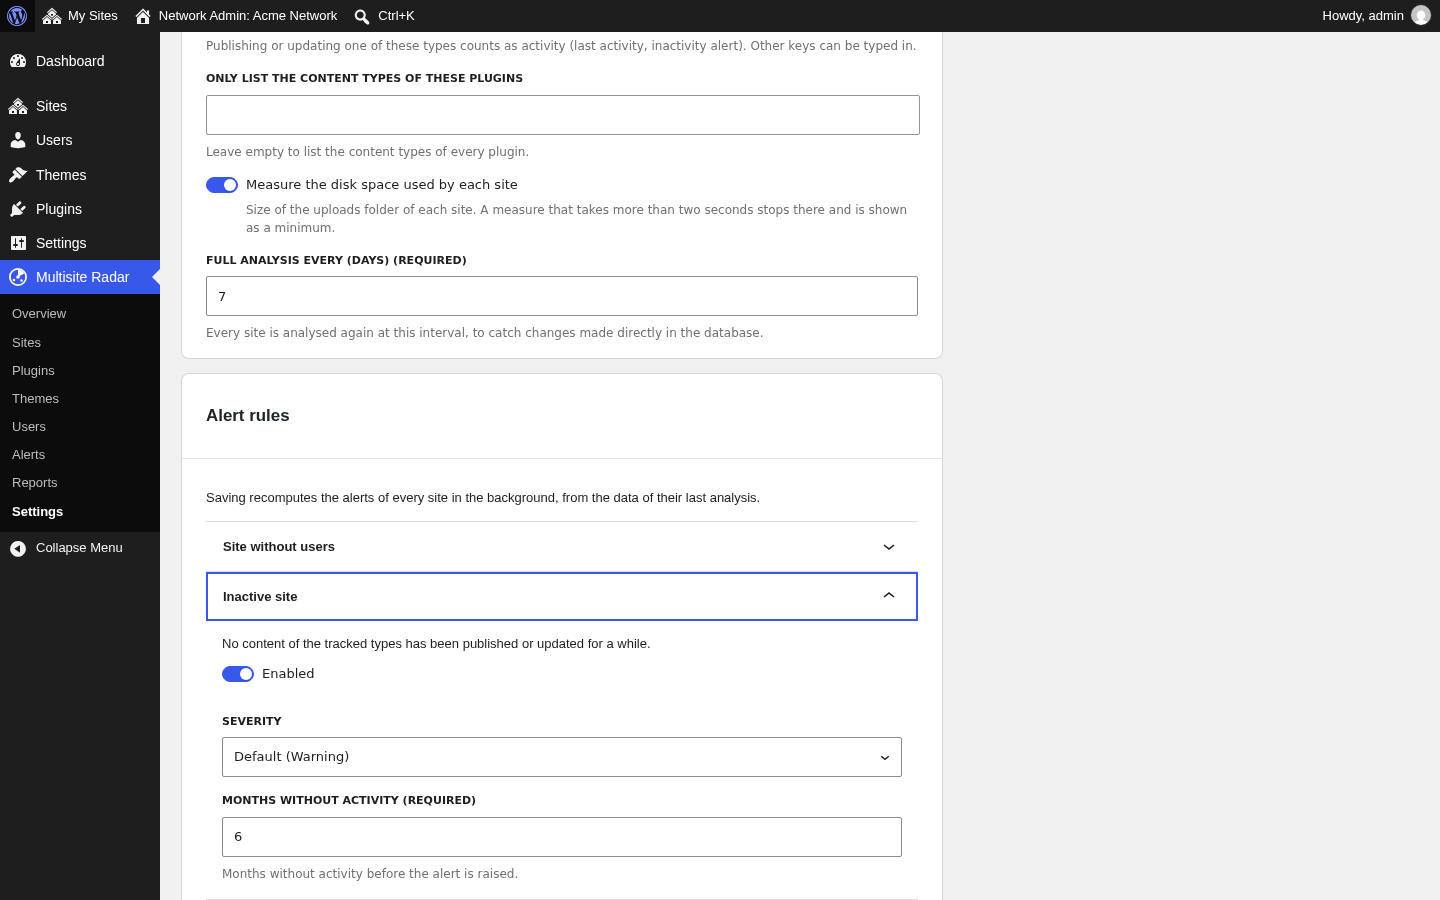
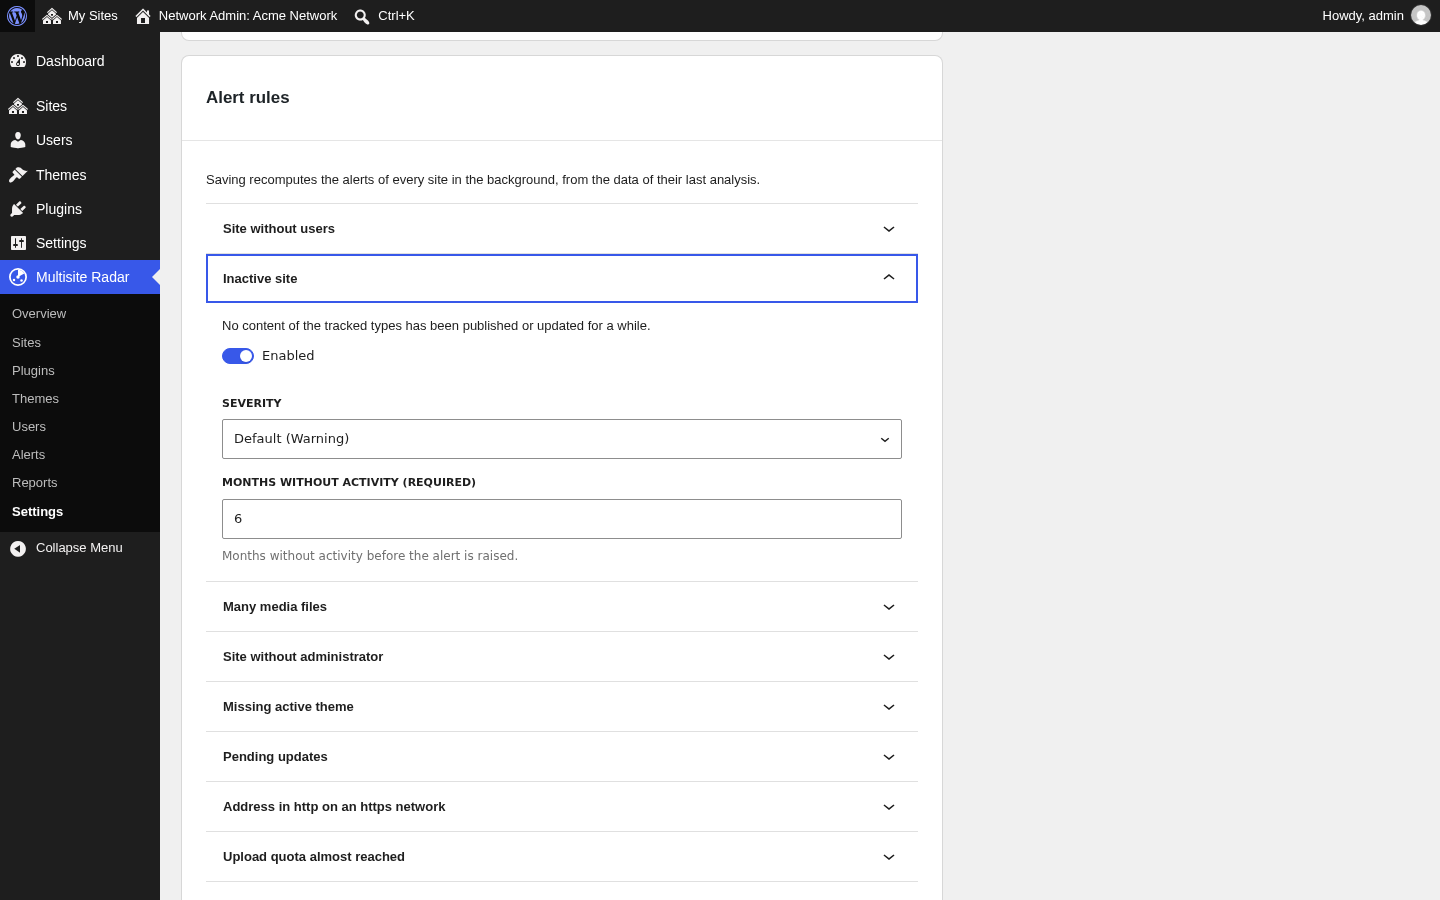
build: keep Hello Dolly unused in the demo network, align caption 5 and polish screenshots 6 and 7

diff --git a/tests/e2e/screenshots/wporg.spec.js b/tests/e2e/screenshots/wporg.spec.js
@@ -12,6 +12,8 @@ test.describe.configure( { mode: 'serial' } );
 
 async function shoot( page, number, fullPage = false ) {
 	const size = page.viewportSize();
+	// Une vraie erreur ne doit pas être masquée par la règle ci-dessous.
+	await expect( page.locator( '.notice-error' ) ).toHaveCount( 0 );
 	// Les avis de WordPress (mise à jour disponible) et la version du plugin n'ont pas leur place dans les captures :
 	// elles ne doivent pas vieillir à chaque publication.
 	await page.addStyleTag( {
@@ -90,6 +92,8 @@ test( '5. Plugins', async ( { admin, page } ) => {
 
 test( '6. Reports', async ( { admin, page } ) => {
 	await open( admin, page, 'page=multisite-radar-reports' );
+	// Les données de démonstration couvrent 30 jours.
+	await page.locator( '#msradar-reports-period' ).selectOption( '30' );
 	await expect(
 		page.locator( '.msradar-reports__trends svg.msradar-trend__chart' )
 	).toHaveCount( 3 );
@@ -106,6 +110,16 @@ test( '7. Settings, an alert rule', async ( { admin, page } ) => {
 		name: /Months without activity/,
 	} );
 	await expect( months ).toBeVisible();
-	await months.scrollIntoViewIfNeeded();
+	// La capture commence en haut de la carte, titre compris, pas au milieu d'une phrase de la carte précédente.
+	await page
+		.locator( '#msradar-app' )
+		.getByRole( 'heading', { name: 'Alert rules' } )
+		.evaluate( ( heading ) => {
+			const top = heading
+				.closest( '.components-card' )
+				.getBoundingClientRect().top;
+			// 32 px de barre d'administration, plus une marge.
+			window.scrollBy( 0, top - 56 );
+		} );
 	await shoot( page, 7 );
 } );

diff --git a/tests/e2e/screenshots/history.php b/tests/e2e/screenshots/history.php
@@ -57,7 +57,7 @@ use MultisiteRadar\Plugin;
 		[ 'events', 'plugin_activated', 'msradar-demo-cpt/msradar-demo-cpt.php', [], 6 ],
 		[ 'hr', 'plugin_activated', 'msradar-demo-cpt/msradar-demo-cpt.php', [], 4 ],
 		[ 'engineering', 'theme_switched', 'twentytwentyfive', [ 'from' => 'twentytwentyfour' ], 2 ],
-		[ 'support', 'plugin_deactivated', 'hello.php', [], 1 ],
+		[ 'lab', 'plugin_deactivated', 'hello.php', [], 1 ],
 		[ 'marketing', 'alert_resolved', 'no_admin', [], 1 ],
 	];
 	$rows    = [];
